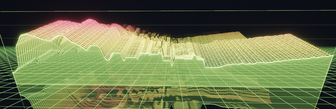
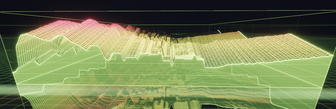
GPU waterfall: glass-box walls with edge signal lines, more convincing glass floor
- Side walls along both terrain edges and a back wall at the oldest row, each
  carrying the signal line where the waterfall meets the glass (stereo gives
  separate L/R lines). Walls keep a minimum strength at the far end so the box
  reads as closed; they are mirrored in the floor and spill light onto it.
- Glass floor redesign: grid seen through the surface with parallax and
  absorption, light spill from the walls, overhead light-bar sheen, stronger
  Fresnel mirror.
- Cost hints updated (waterfall 3.0 ms mixed / +2.2 stereo); README, plan
  results table and waterfall thumbnails refreshed. Holds 120 fps at 5120x1440.

diff --git a/gpu/src/scenes/waterfall.rs b/gpu/src/scenes/waterfall.rs
@@ -1,14 +1,18 @@
 use super::*;
 
-/// Spectrum history as a scrolling wireframe terrain in front of a glass wall, standing on a
-/// glass floor that reflects both.
+/// Spectrum history as a scrolling wireframe terrain inside a box of glass walls (front, both sides
+/// and back), standing on a glass floor that reflects all of it.
 pub struct Waterfall {
     floor: wgpu::RenderPipeline,
     terrain_refl: wgpu::RenderPipeline,
     wall_refl: wgpu::RenderPipeline,
+    side_refl: wgpu::RenderPipeline,
+    back_refl: wgpu::RenderPipeline,
     terrain: wgpu::RenderPipeline,
     terrain_stereo: wgpu::RenderPipeline,
     wall: wgpu::RenderPipeline,
+    side: wgpu::RenderPipeline,
+    back: wgpu::RenderPipeline,
 }
 
 const CELLS: u32 = (HIST_W - 1) * 191 * 6;
@@ -26,10 +30,14 @@ impl Waterfall {
             floor: ctx.pipeline(&sh, "wfloor", "vs_wfloor", "fs_wfloor", floor),
             terrain_refl: ctx.pipeline(&sh, "ter_refl", "vs_ter_refl", "fs_ter_refl", overlay),
             wall_refl: ctx.pipeline(&sh, "wall_refl", "vs_wall_refl", "fs_wall_refl", overlay),
+            side_refl: ctx.pipeline(&sh, "side_refl", "vs_side_refl", "fs_side_refl", overlay),
+            back_refl: ctx.pipeline(&sh, "back_refl", "vs_back_refl", "fs_back_refl", overlay),
             terrain: ctx.pipeline(&sh, "ter", "vs_ter", "fs_ter", Pipe::OPAQUE),
             // stereo overlay: both channels' wireframes add together, no occlusion between them
             terrain_stereo: ctx.pipeline(&sh, "ter_st", "vs_ter", "fs_ter", overlay),
             wall: ctx.pipeline(&sh, "wall", "vs_wall", "fs_wall", glass),
+            side: ctx.pipeline(&sh, "side", "vs_side", "fs_side", glass),
+            back: ctx.pipeline(&sh, "back", "vs_back", "fs_back", glass),
         }
     }
 }
@@ -43,6 +51,10 @@ impl Scene for Waterfall {
         pass.draw(0..REFL_CELLS, 0..if f.p.mode == 1 { 2 } else { 1 });
         pass.set_pipeline(&self.wall_refl);
         pass.draw(0..6, 0..1);
+        pass.set_pipeline(&self.side_refl);
+        pass.draw(0..6, 0..2); // left, right
+        pass.set_pipeline(&self.back_refl);
+        pass.draw(0..6, 0..1);
         if f.p.mode == 1 {
             pass.set_pipeline(&self.terrain_stereo);
             pass.draw(0..CELLS, 0..2); // left, right
@@ -50,6 +62,11 @@ impl Scene for Waterfall {
             pass.set_pipeline(&self.terrain);
             pass.draw(0..CELLS, 0..1);
         }
+        // glass back to front
+        pass.set_pipeline(&self.back);
+        pass.draw(0..6, 0..1);
+        pass.set_pipeline(&self.side);
+        pass.draw(0..6, 0..2);
         pass.set_pipeline(&self.wall);
         pass.draw(0..6, 0..1);
     }

diff --git a/gpu/src/app.rs b/gpu/src/app.rs
@@ -472,7 +472,7 @@ impl App {
 
 /// Estimated GPU milliseconds of a scene at 5120x1440; the stereo waterfall draws two meshes.
 fn scene_cost_of(scene: u32, stereo_waterfall: bool) -> f32 {
-    scenes::info(scene).cost_ms + if scene == scenes::WATERFALL && stereo_waterfall { 2.1 } else { 0.0 }
+    scenes::info(scene).cost_ms + if scene == scenes::WATERFALL && stereo_waterfall { 2.2 } else { 0.0 }
 }
 
 fn scene_cost(r: &Resolved) -> f32 {

diff --git a/gpu/src/scenes/mod.rs b/gpu/src/scenes/mod.rs
@@ -145,7 +145,7 @@ const INFOS: [SceneInfo; 3] = [
         name: "Waterfall",
         cam: CamLimits { yaw: f32::INFINITY, pitch: (-1.5, 1.5), zoom: (0.35, 3.0) },
         controls: &[Control::WaterfallChannels, Control::WaterfallDetail],
-        cost_ms: 2.3,
+        cost_ms: 3.0,
     },
     SceneInfo {
         id: TUNNEL,

diff --git a/README.md b/README.md
@@ -41,8 +41,11 @@ Needs Rust (rustup) and a Vulkan-capable GPU. It holds 120 fps at 5120x1440 on a
   the floor, treble along the ceiling, left channel on the left wall, right on the right. Loud bins
   push inward, low-frequency hits launch luminous rings down the tube, treble accents flicker.
 - **3D columns** - segmented LED cores in glass housings on a glossy floor.
-- **Waterfall** - the spectrum history as a wireframe terrain (mixed or stereo overlay), standing on a
-  glass floor that reflects it.
+- **Waterfall** - the spectrum history as a wireframe terrain (mixed or stereo overlay), inside glass
+  walls on all four sides. The front wall carries the live spectrum line; each side wall carries the
+  terrain's edge and the back wall the oldest row, so their lines follow where the waterfall meets the
+  glass. It stands on a glass floor: a mirrored copy of the terrain and walls, a grid seen through the surface, light
+  cast by the walls, and sheen from overhead light bars.
 
 **Controls.** `F`/`F11` full screen, `Esc` leaves, `Left`/`Right` change scene, `1`-`9` pick a preset
 (your favorites, else the whole catalog), `L` opens the look browser. In full screen a compact strip

diff --git a/gpu/VISUALIZATION_PLAN.md b/gpu/VISUALIZATION_PLAN.md
@@ -607,7 +607,7 @@ timestamp queries).
 | Scene | fps | frame median / p99 | Scene GPU | Bloom GPU |
 |-------|-----|--------------------|-----------|-----------|
 | 3D columns | 120.0 | 8.33 / 9.1 ms | 2.1 ms | 0.45 ms |
-| Waterfall (mixed / stereo), with glass-floor reflections | 120.0 | 8.33 / 9.1 ms | 2.2 / 4.4 ms | 0.45 ms |
+| Waterfall (mixed / stereo), with glass floor and walls | 120.0 | 8.33 / 9.1 ms (stereo 9.8) | 3.1 / 5.3 ms | 0.45 ms |
 | Spectrum Tunnel | 120.0 | 8.33 / 9.0 ms | 2.75 ms | 0.45 ms |
 
 Transitions also hold 120.0 fps (p99 9-11 ms). The compositor estimates the cost of both scenes and
